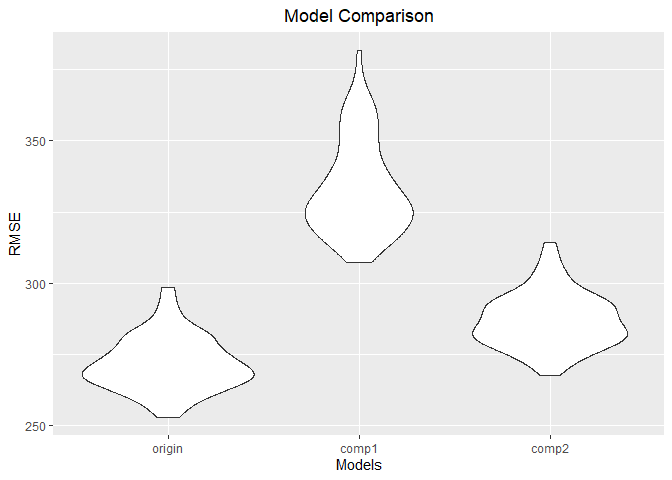
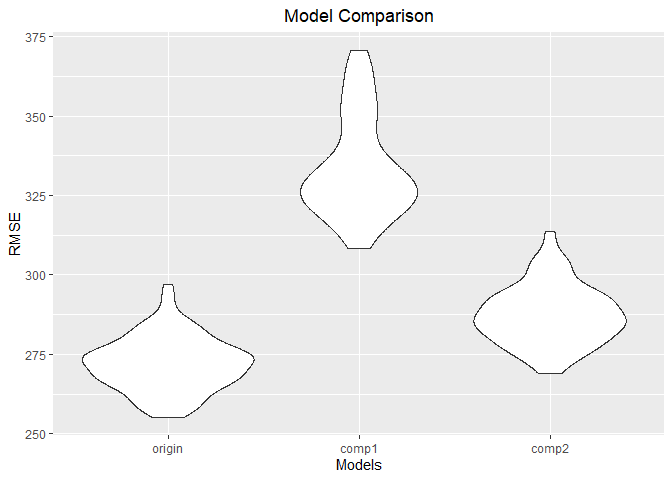
final commit --finish hw6

diff --git a/p8105_hw6_yy3307.md b/p8105_hw6_yy3307.md
@@ -2,8 +2,6 @@ p8105_hw6_yy3307
 ================
 2022-11-29
 
-## Problem 1
-
 ## Problem 2
 
 First we need to import and clean the `homicide` dataset. Then I’m going
@@ -474,3 +472,10 @@ cv_df %>%
 ```
 
 ![](p8105_hw6_yy3307_files/figure-gfm/unnamed-chunk-11-1.png)<!-- -->
+
+From the violin plot shown above, we can see that our origin model has
+the lowest RMSE, the second comparison model using head circumference,
+length, sex, and all interactions as predictors has medium RMSE, and
+first comparison model using length at birth and gestational age as
+predictors has highest RMSE. Also, the origin model has similar shape
+distribution as the second comparison model.
